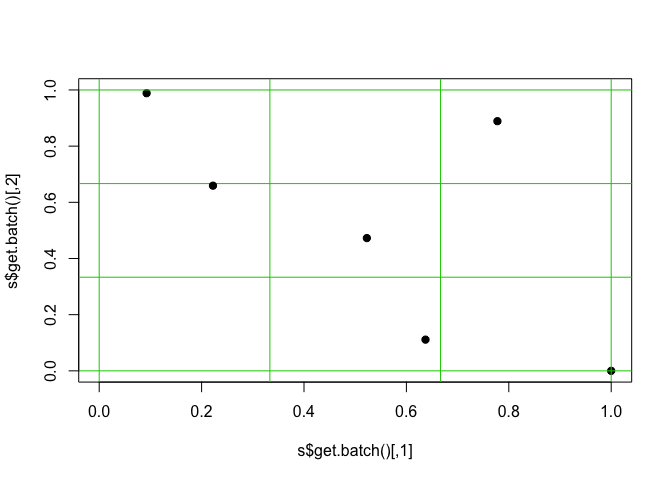
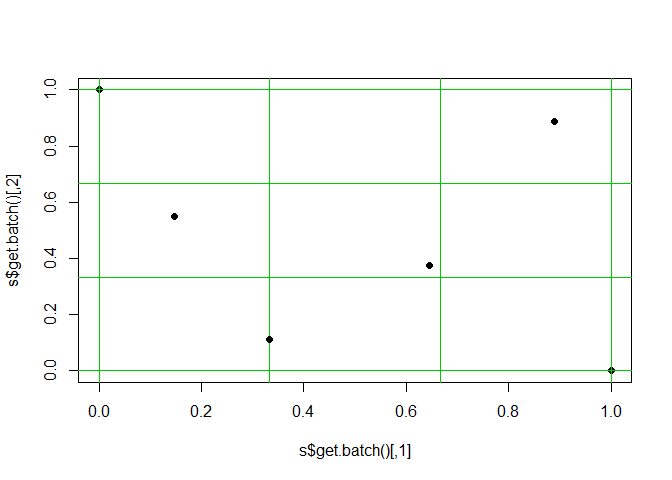
Added Travis badge

diff --git a/README.md b/README.md
@@ -3,16 +3,31 @@
 sFFLHD
 ======
 
+[![Travis-CI Build Status](https://travis-ci.org/CollinErickson/GauPro.svg?branch=master)](https://travis-ci.org/CollinErickson/GauPro)
+
 This R package provides a class that generates experiment sFFLHD designs. Sequential full factorial-based Latin hypercube design were created by Duan, Ankenman, Sanchez, and Sanchez (2015, Technometrics).
 
 To create a new design you use the function `sFFLHD$new` and must give in the number of dimensions, `D`, and the batch size/number of levels per factor, `L`. An example is shown below (the last line can be repeated when run in console to see how new batches are added).
 
 ``` r
 library(sFFLHD)
+#> Loading required package: DoE.base
+#> Loading required package: grid
+#> Loading required package: conf.design
+#> 
+#> Attaching package: 'DoE.base'
+#> The following objects are masked from 'package:stats':
+#> 
+#>     aov, lm
+#> The following object is masked from 'package:graphics':
+#> 
+#>     plot.design
+#> The following object is masked from 'package:base':
+#> 
+#>     lengths
+set.seed(0)
 s <- sFFLHD$new(D=2,L=3)
 plot(s$get.batch(),xlim=0:1,ylim=0:1,pch=19)
-#> Warning in DoE.base::oa.design(nruns = L^2, nfactors = D + 1, nlevels =
-#> L, : resources were not sufficient for optimizing column selection
 abline(h=(0:(s$Lb))/s$Lb,v=(0:(s$Lb))/s$Lb,col=3);points(s$get.batch(),pch=19)
 ```
 
